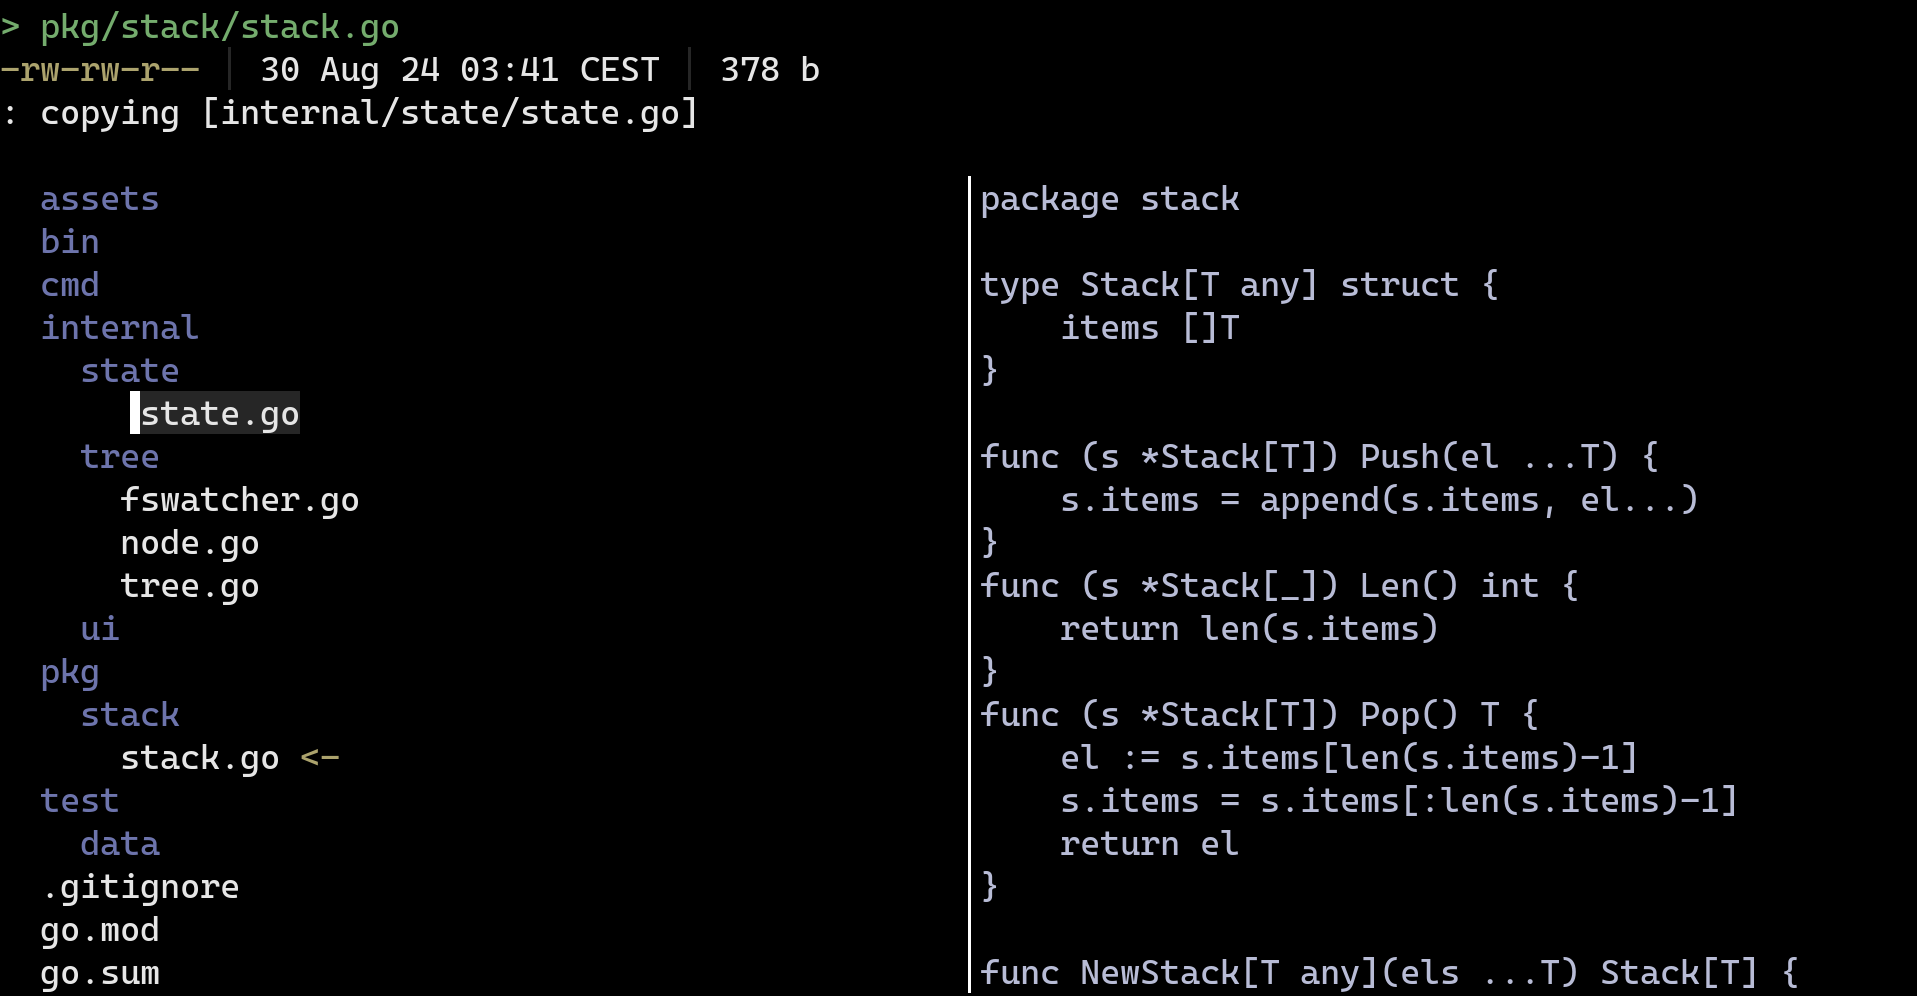
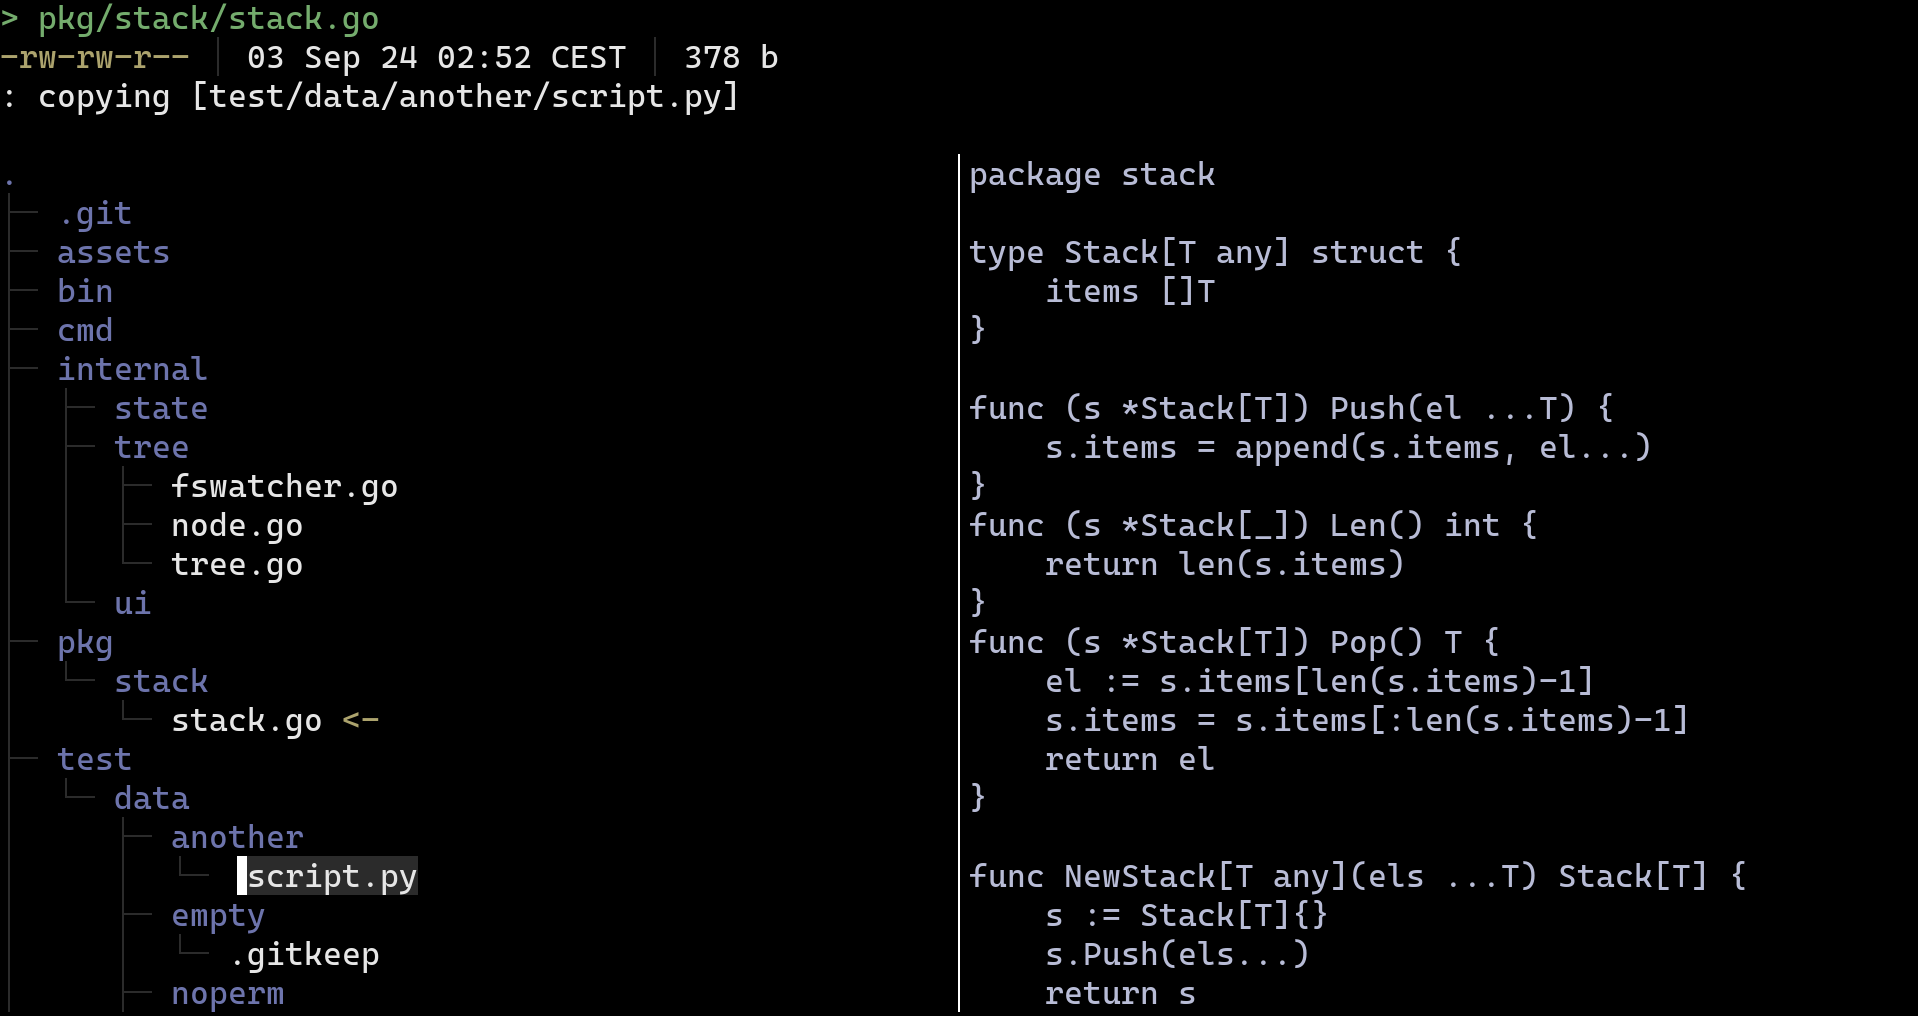
branches

diff --git a/internal/ui/render.go b/internal/ui/render.go
@@ -16,9 +16,14 @@ import (
 )
 
 const (
-	previewBytesLimit int64 = 10_000
-	minHeight               = 10
-	minWidth                = 10
+	previewBytesLimit   int64 = 10_000
+	minHeight                 = 10
+	minWidth                  = 10
+	indentParent              = "│  "
+	indentCurrent             = "├─ "
+	indentCurrentLast         = "└─ "
+	indentEmpty               = "   "
+	emptydirContentName       = "..."
 )
 
 type Renderer struct {
@@ -157,17 +162,30 @@ func (r *Renderer) renderTree(tree *t.Tree, widthLim int) ([]string, int) {
 
 	type stackEl struct {
 		*t.Node
-		int
+		string
+		bool
 	}
 	lines := []string{}
-	s := stack.NewStack(stackEl{tree.Root, 0})
+	s := stack.NewStack(stackEl{tree.Root, "", false})
 
 	for s.Len() > 0 {
 		el := s.Pop()
 		linen += 1
 
 		node := el.Node
-		depth := el.int
+		isLast := el.bool
+		parentIndent := el.string
+
+		var indent string
+		if node == tree.Root {
+			indent = ""
+		} else if isLast {
+			indent = parentIndent + indentCurrentLast
+			parentIndent = parentIndent + indentEmpty
+		} else {
+			indent = parentIndent + indentCurrent
+			parentIndent = parentIndent + indentParent
+		}
 
 		if node == nil {
 			continue
@@ -175,12 +193,13 @@ func (r *Renderer) renderTree(tree *t.Tree, widthLim int) ([]string, int) {
 
 		name := node.Info.Name()
 		nameRuneCountNoStyle := utf8.RuneCountInString(name)
-		indent := strings.Repeat("  ", depth)
 		indentRuneCount := utf8.RuneCountInString(indent)
 
 		if nameRuneCountNoStyle+indentRuneCount > widthLim-6 { // 6 = len([]rune{"... <-"})
 			name = string([]rune(name)[:max(0, widthLim-indentRuneCount-6)]) + "..."
 		}
+
+		indent = r.Style.TreeIndent.Render(indent)
 
 		if node.Info.IsDir() {
 			name = r.Style.TreeDirecotryName.Render(name)
@@ -205,12 +224,13 @@ func (r *Renderer) renderTree(tree *t.Tree, widthLim int) ([]string, int) {
 		if node.Children != nil {
 			// current directory is empty
 			if len(node.Children) == 0 && tree.CurrentDir == node {
-				lines = append(lines, strings.Repeat("  ", depth+1)+"..."+r.Style.TreeSelectionArrow.Render(" <-"))
+				emptyIndent := r.Style.TreeIndent.Render(parentIndent + indentCurrentLast)
+				lines = append(lines, emptyIndent+emptydirContentName+r.Style.TreeSelectionArrow.Render(" <-"))
 				currentLine = linen + 1
 			}
 			for i := len(node.Children) - 1; i >= 0; i-- {
 				ch := node.Children[i]
-				s.Push(stackEl{ch, depth + 1})
+				s.Push(stackEl{ch, parentIndent, i == len(node.Children)-1})
 			}
 		}
 	}

diff --git a/internal/ui/stylesheets.go b/internal/ui/stylesheets.go
@@ -20,6 +20,7 @@ type Stylesheet struct {
 	TreeLinkName        lipgloss.Style
 	TreeMarkedNode      lipgloss.Style
 	TreeSelectionArrow  lipgloss.Style
+	TreeIndent          lipgloss.Style
 
 	ContentPreview lipgloss.Style
 }
@@ -30,7 +31,7 @@ var DefaultStylesheet = Stylesheet{
 	FinfoPermissions: lipgloss.NewStyle().Foreground(lipgloss.Color("#ACA46D")),
 	FinfoLastUpdated: lipgloss.NewStyle().Foreground(lipgloss.Color("#E6E6E6")),
 	FinfoSize:        lipgloss.NewStyle().Foreground(lipgloss.Color("#E6E6E6")),
-	FinfoSep:         lipgloss.NewStyle().Foreground(lipgloss.Color("#262626")),
+	FinfoSep:         lipgloss.NewStyle().Foreground(lipgloss.Color("#2b2b2b")),
 
 	OperationBar:      lipgloss.NewStyle().Foreground(lipgloss.Color("#E6E6E6")),
 	OperationBarInput: lipgloss.NewStyle().Background(lipgloss.Color("#3C3C3C")),
@@ -43,8 +44,9 @@ var DefaultStylesheet = Stylesheet{
 	TreeMarkedNode: lipgloss.NewStyle().
 		BorderLeft(true).
 		BorderStyle(lipgloss.InnerHalfBlockBorder()).
-		Background(lipgloss.Color("#262626")),
+		Background(lipgloss.Color("#2b2b2b")),
 	TreeSelectionArrow: lipgloss.NewStyle().Foreground(lipgloss.Color("#ACA46D")),
+	TreeIndent:         lipgloss.NewStyle().Foreground(lipgloss.Color("#2b2b2b")),
 
 	ContentPreview: lipgloss.NewStyle().Italic(true).Foreground(lipgloss.Color("#B8BCD6")),
 }
